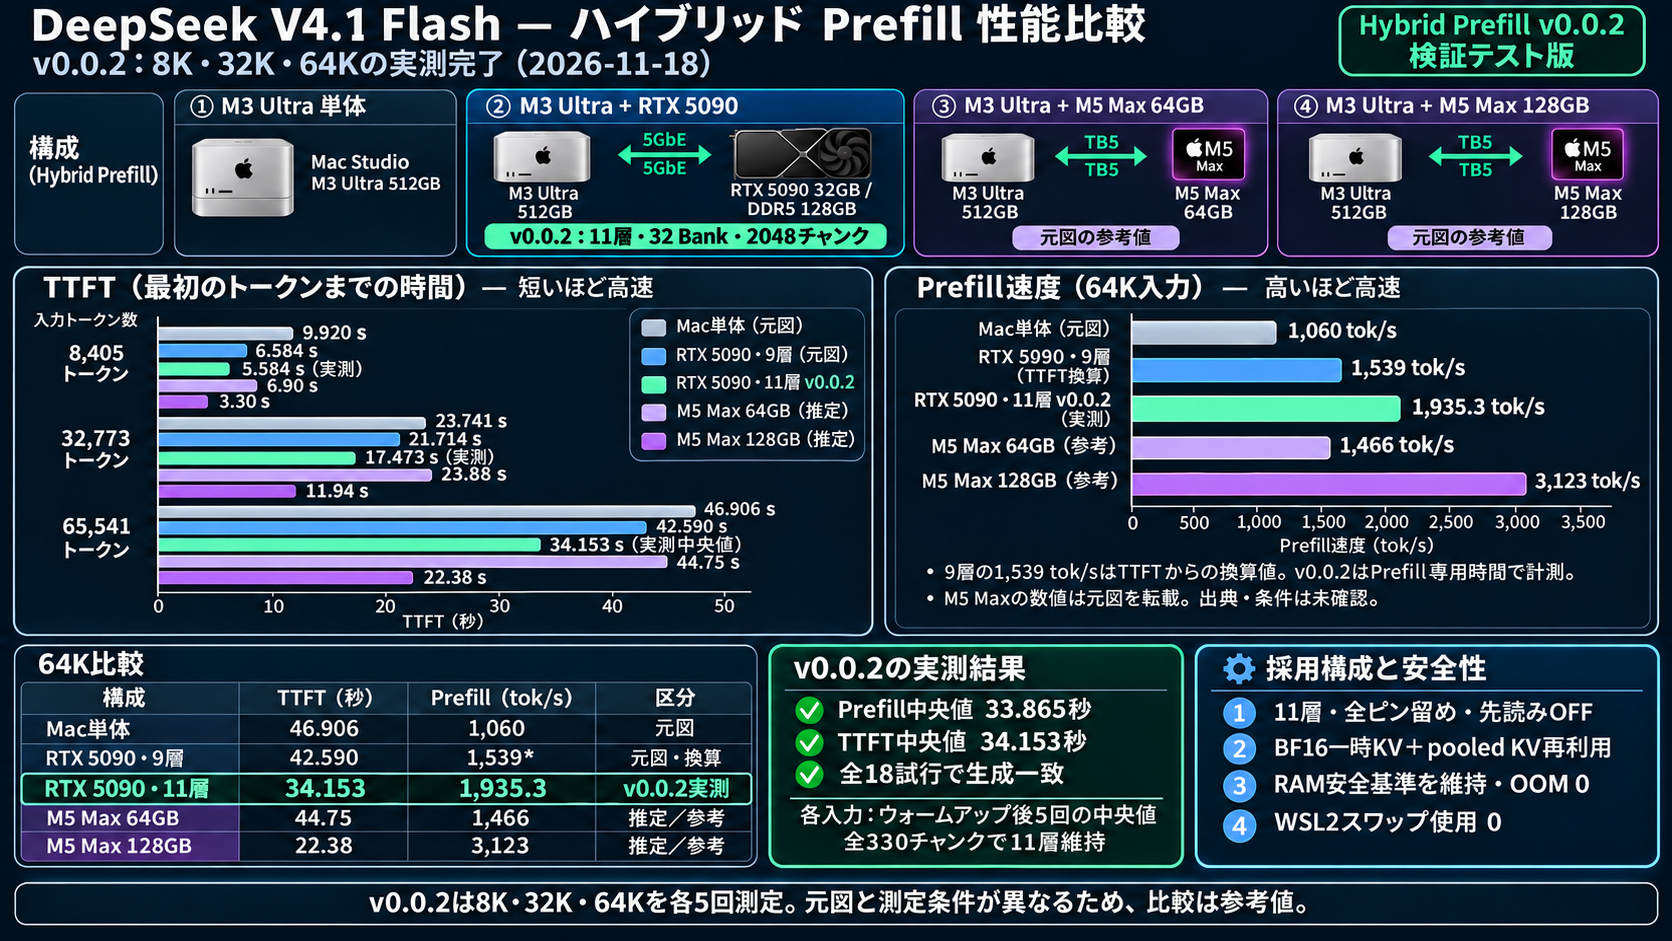
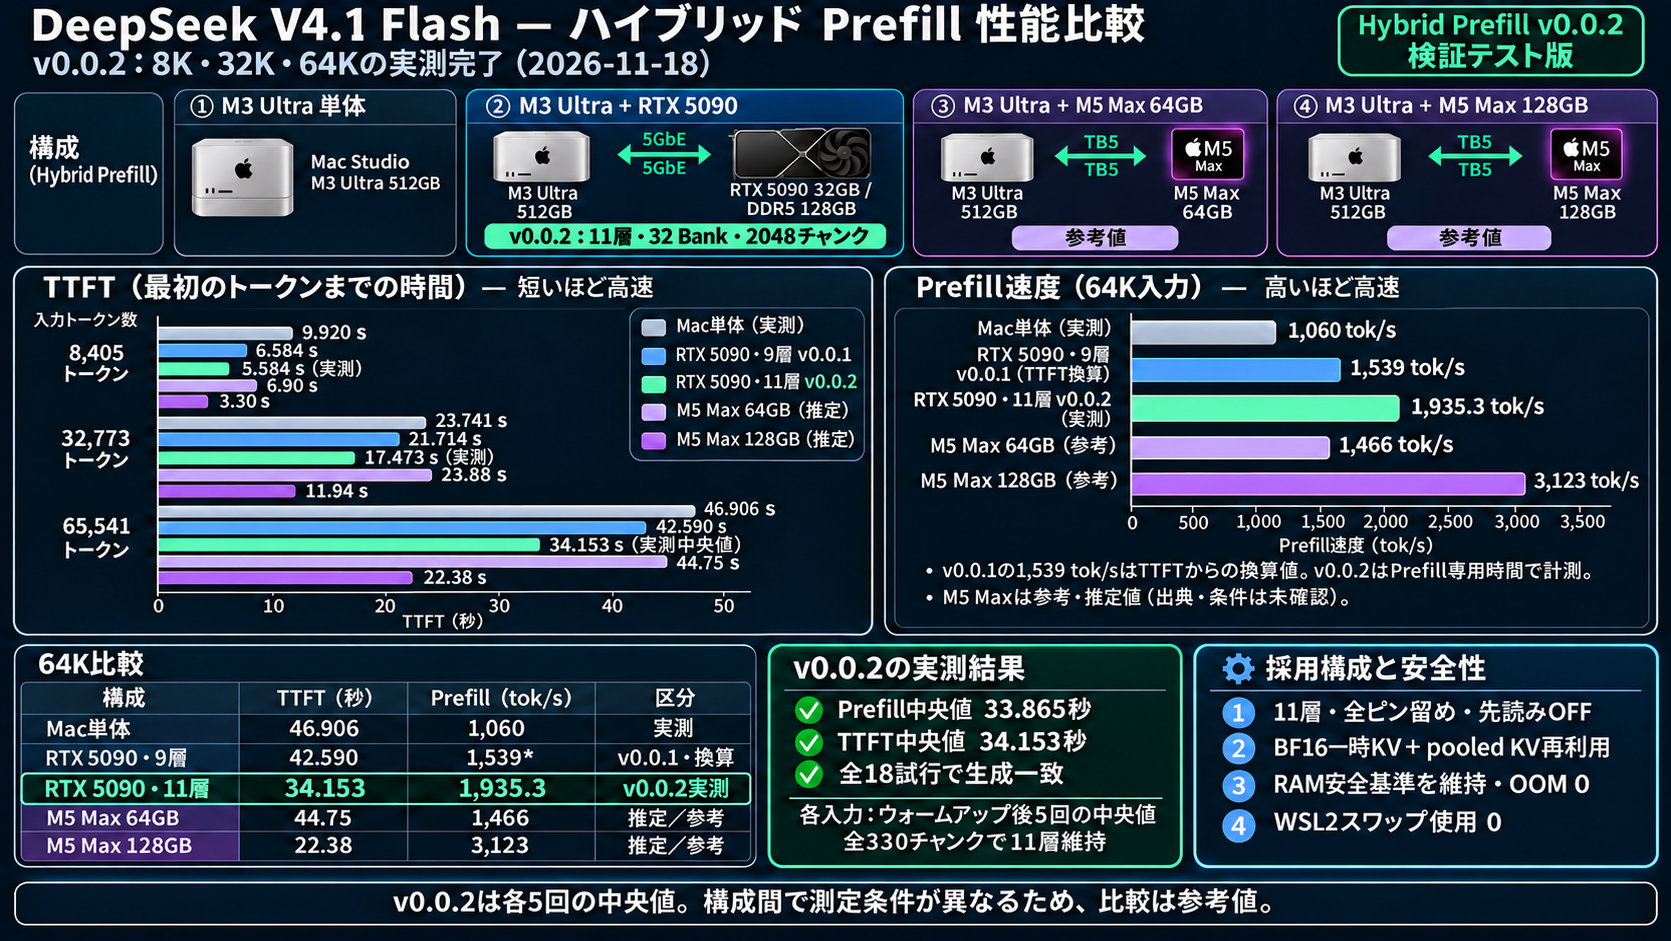
Label nine-layer results as v0.0.1 and simplify benchmark captions

diff --git a/docs/v0.0.2-measured-20261118.en.md b/docs/v0.0.2-measured-20261118.en.md
@@ -24,6 +24,6 @@ Windows startup minimum available RAM was 26.81GiB, with minimum commit headroom
 
 The new median 64K prefill was 33.865s. The earlier release figures of 33.811s prefill and 34.098s TTFT belong to a separate measurement series. Metrics-wrapper overhead was not independently measured. Hash checks cover the output of at most eight generated tokens. Full-vocabulary logits and complete KV caches were not captured in this remeasurement.
 
-The Mac-only, nine-layer and M5 Max points in the comparison diagram are inherited from the supplied figure and have different conditions from this 11-layer remeasurement. M5 Max values remain reference/estimated figures from that image, with source and conditions unverified.
+The Mac-only, v0.0.1 nine-layer and M5 Max points in the comparison diagram are from the earlier measurement series and have different conditions from this 11-layer remeasurement. M5 Max values remain reference/estimated figures, with source and conditions unverified.
 
 [Raw measurements and summary](../benchmark/v0.0.2/measured-20261118/benchmark-results.json)

diff --git a/docs/v0.0.2-measured-20261118.md b/docs/v0.0.2-measured-20261118.md
@@ -24,6 +24,6 @@ NVIDIA総VRAMは約3秒間隔で採取した観測最大値。RTX側のMLX内部
 
 今回の64K Prefill中央値は33.865秒。公開時の33.811秒・TTFT34.098秒は以前の別系列の結果として保持する。今回の計測ラッパーによるオーバーヘッドは個別には測定していない。生成ハッシュの比較対象は最大8トークンの出力であり、この再試験で全語彙logitsやKVキャッシュ全体は採取していない。
 
-比較図のMac単体・9層・M5 Maxの各数値は元図の系列であり、今回の11層再測定とは条件が異なる。M5 Maxの数値は元図の参考・推定値で、出典と条件は未確認。
+比較図のMac単体・v0.0.1の9層・M5 Maxの各数値は既存の測定系列であり、今回の11層再測定とは条件が異なる。M5 Maxの数値は参考・推定値で、出典と条件は未確認。
 
 [Raw measurements and summary](../benchmark/v0.0.2/measured-20261118/benchmark-results.json)

diff --git a/README.en.md b/README.en.md
@@ -2,7 +2,7 @@
 
 [日本語](README.md) · [Distribution ZIP](https://github.com/tamayanao/hybrid-prefill/raw/main/dist/Hybrid-Prefill-v0.0.2.zip)
 
-![Measured v0.0.2 8K, 32K and 64K results with reference values from the supplied figure (Japanese)](docs/hybrid-prefill-comparison-v0.0.2-measured.png)
+![Measured v0.0.2 8K, 32K and 64K results with existing reference values (Japanese)](docs/hybrid-prefill-comparison-v0.0.2-measured.png)
 
 Hybrid Prefill splits DeepSeek V4.1 Flash prefill between a Mac Studio and a Windows PC with an RTX 5090. The Mac keeps the full model and KV cache and handles decoding. The RTX processes the first layers, keeping three resident and streaming the additional expert weights from pinned WSL2 RAM.
 

diff --git a/README.md b/README.md
@@ -2,7 +2,7 @@
 
 [English](README.en.md) · [配布ZIP](https://github.com/tamayanao/hybrid-prefill/raw/main/dist/Hybrid-Prefill-v0.0.2.zip)
 
-![v0.0.2の8K・32K・64K実測と元図の参考値との比較](docs/hybrid-prefill-comparison-v0.0.2-measured.png)
+![v0.0.2の8K・32K・64K実測と既存の参考値との比較](docs/hybrid-prefill-comparison-v0.0.2-measured.png)
 
 DeepSeek V4.1 Flashの入力処理を、Mac StudioとRTX 5090搭載Windows PCで分担します。Macがモデル全体とKVキャッシュを保持して応答を生成し、RTXが先頭の層を処理します。最初の3層をGPUに常駐させ、追加層のExpert重みをWSL2のピン留めRAMから転送します。
 
